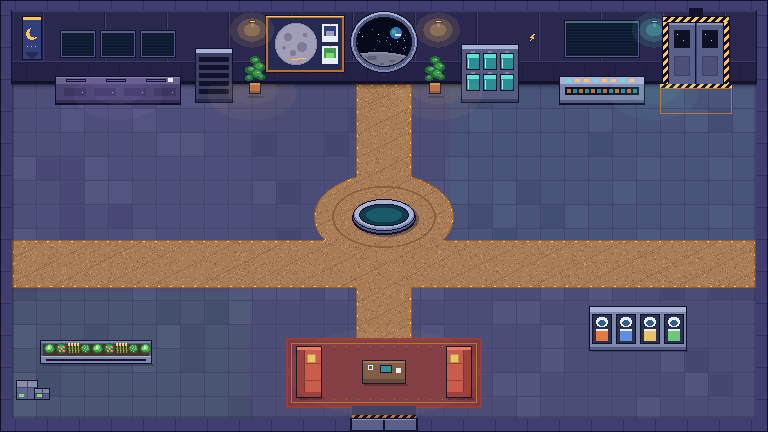
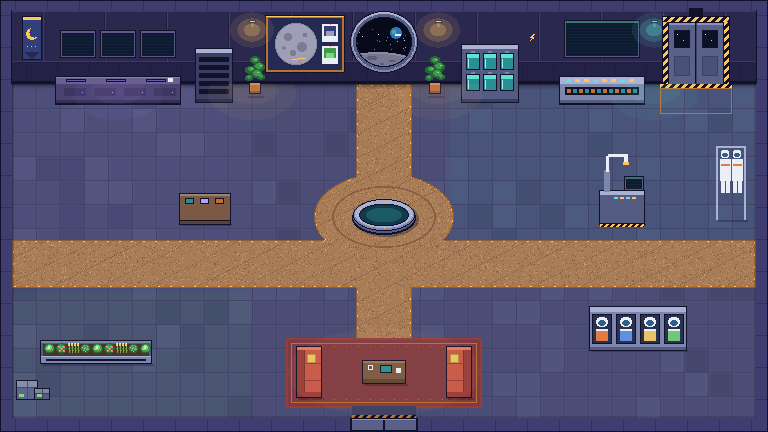
Furniture pass: lockers, suit racks, comms desk, sleep pods, galley, med cot, bike
Every piece is a layout constant plus a blocker, painted by the art scripts so
art and collision stay in sync. Crew now sleep in corridor sleep pods (the old
'beds' are grow beds). tools/dev/check_layout.py flood-fills both maps and
fails if any spot, door or crew route is blocked.

Claude-Session: https://claude.ai/code/session_015ANfU5F84u9fv1g1eVajXV

diff --git a/tools/art/paint_world.py b/tools/art/paint_world.py
@@ -357,6 +357,7 @@ def paint_outpost(preview: bool):
     paint_power_room(cv, L, art)
     paint_greenhouse(cv, L, art, rng)
     paint_shelter(cv, L, art)
+    paint_furniture(cv, L, art)
     paint_exterior_after(cv, L, art)
     # Banded pools of light on the floor under the wall lamps.
     for name, tint in (("POWER_ROOM", TEAL), ("GREEN_ROOM", C("f6b7ff")), ("SHELTER_ROOM", AMBER)):
@@ -622,6 +623,99 @@ def paint_greenhouse(cv: Canvas, L: dict, art: dict, rng):
         cv.rect(lx + 1, ry - FACE_H + 5, 10, 1, C("f6b7ff"))
     sx, sy = L["GREEN_SPOT"]
     art["green_spot"] = [sx, sy]
+
+
+def cabinet(cv: Canvas, x, y, w, d, h, body, top=None, edge_c=None):
+    """A box standing on the floor: footprint (x, y, w, d), front face rising h pixels."""
+    top = top if top is not None else shade(body, 1.25)
+    edge_c = edge_c if edge_c is not None else DARK
+    cv.rect(x + 2, y + d, w, 2, DARK, 0.3)                    # contact shadow
+    cv.rect(x - 1, y - h - 1, w + 2, h + d + 2, edge_c)
+    cv.rect(x, y - h, w, 3, top)
+    cv.rect(x, y - h + 3, w, h + d - 3, body)
+    cv.rect(x, y + d - 2, w, 2, shade(body, 0.75))
+
+
+def paint_furniture(cv: Canvas, L: dict, art: dict):
+    """Everyday furniture for the five-day mission. Footprints come from outpost_layout.gd."""
+    # Storage lockers (power room, south wall).
+    x, y, w, d = L["LOCKERS"]
+    cabinet(cv, x, y, w, d, 26, STEEL_LO, STEEL)
+    for i in range(0, w - 4, 13):
+        cv.rect(x + 2 + i, y - 22, 11, d + 18, DARK)
+        cv.rect(x + 3 + i, y - 21, 9, d + 16, C("3e456c"))
+        for k in range(3):
+            cv.hline(x + 5 + i, y - 18 + k * 3, 5, STEEL)
+        cv.px(x + 10 + i, y - 6, AMBER)
+    # Suit rack: two spare suits and helmets.
+    x, y, w, d = L["SUIT_RACK"]
+    cv.rect(x + 2, y + d, w, 2, DARK, 0.3)
+    cv.rect(x, y - 30, 2, d + 30, STEEL_HI)
+    cv.rect(x + w - 2, y - 30, 2, d + 30, STEEL_HI)
+    cv.rect(x, y - 30, w, 2, STEEL_HI)
+    for k, suit in enumerate([C("e9eef7"), C("d9dfec")]):
+        sx = x + 4 + k * 10
+        cv.ellipse(sx + 4, y - 22, 4, 4, suit)
+        cv.ellipse(sx + 4, y - 21, 2.5, 2, C("2f5f8a"))
+        cv.rect(sx, y - 17, 9, 16, suit)
+        cv.rect(sx + 1, y - 13, 7, 2, ORANGE)
+        cv.rect(sx + 1, y - 1, 3, 8, suit)
+        cv.rect(sx + 5, y - 1, 3, 8, suit)
+    # Comms desk: two screens and a microphone (corridor, west wall). Evening logs are written here.
+    x, y, w, d = L["COMMS_DESK"]
+    cabinet(cv, x, y, w, d, 8, C("4b5278"), STEEL)
+    screen(cv, x + 1, y - 18, w - 2, 9, TEAL)
+    screen(cv, x + 1, y + 4, w - 2, 9, AMBER)
+    cv.rect(x + w - 3, y + d - 8, 2, 6, STEEL_HI)
+    art["comms_desk"] = [x, y, w, d]
+    # Sleep pods: phone-booth crew quarters like the space station's, with a curtain and a reading light.
+    for name in ("SLEEP_POD_A", "SLEEP_POD_B"):
+        x, y, w, d = L[name]
+        cabinet(cv, x, y, w, d, 22, C("3a3f66"), C("5a608e"))
+        cv.rect(x + 3, y - 16, w - 6, d + 12, C("232847"))
+        cv.rect(x + 4, y - 15, w - 8, d + 10, C("5a4d7d"))                  # curtain
+        for k in range(y - 14, y + d - 4, 4):
+            cv.hline(x + 4, k, w - 8, C("4a3f6c"))
+        cv.rect(x + 5, y - 19, 3, 2, AMBER)                                   # reading light
+        cv.rect(x + w - 9, y - 19, 4, 2, TEAL_LO)                             # name tag
+    # Plant shelf: herbs in small trays (greenhouse, east wall).
+    x, y, w, d = L["PLANT_SHELF"]
+    cabinet(cv, x, y, w, d, 20, C("6b5a4e"), C("8a7565"))
+    for k in range(4):
+        sy = y - 16 + k * 11
+        cv.hline(x, sy + 6, w, C("4d4038"))
+        cv.rect(x + 2, sy + 2, w - 4, 4, GREEN_LO)
+        cv.px(x + 3, sy + 1, GREEN)
+        cv.px(x + w - 4, sy + 1, GREEN)
+    # Galley table with meal trays (storm shelter doubles as the galley).
+    x, y, w, d = L["GALLEY_TABLE"]
+    cabinet(cv, x, y, w, d, 6, C("6b5a4e"), C("8a7565"))
+    for k in range(3):
+        cv.rect(x + 4 + k * 11, y - 4, 8, 5, C("d9dfec"))
+        cv.rect(x + 6 + k * 11, y - 3, 4, 2, [GREEN, ORANGE, AMBER][k])
+    # Med bay cot with a first-aid cabinet.
+    x, y, w, d = L["MED_COT"]
+    cabinet(cv, x, y, w, d, 5, STEEL_LO, STEEL)
+    cv.rect(x + 2, y - 4, w - 4, d, C("e9eef7"))
+    cv.rect(x + 2, y - 4, 7, d, C("c9d0e2"))
+    cv.rect(x + w - 8, y - 18, 7, 7, C("e9eef7"))
+    cv.rect(x + w - 6, y - 17, 3, 5, RED)
+    cv.rect(x + w - 7, y - 16, 5, 3, RED)
+    # Exercise bike.
+    x, y, w, d = L["BIKE"]
+    cv.rect(x + 2, y + d, w, 2, DARK, 0.3)
+    cv.rect(x + 2, y + d - 4, w - 4, 3, C("5b6584"))
+    cv.ellipse(x + 8, y + d - 7, 5, 5, C("8a93b0"))
+    cv.ellipse(x + 8, y + d - 7, 2, 2, DARK)
+    cv.rect(x + w - 10, y - 6, 3, d + 2, STEEL_HI)
+    cv.rect(x + w - 14, y - 8, 10, 3, C("2a2f45"))
+    cv.rect(x + 6, y - 2, 8, 3, C("2a2f45"))
+    screen(cv, x + w - 12, y - 16, 9, 6, TEAL)
+    # Cable trays along the corridor ceiling line (decoration only).
+    cx, cy, cw, ch = L["CORRIDOR"]
+    for k in range(cy + 6, cy + ch - 10, 6):
+        cv.px(cx + 2, k, TEAL_LO if (k // 6) % 3 == 0 else STEEL_LO)
+        cv.px(cx + cw - 3, k, AMBER_LO if (k // 6) % 4 == 0 else STEEL_LO)
 
 
 def paint_shelter(cv: Canvas, L: dict, art: dict):

diff --git a/tools/dev/check_layout.py b/tools/dev/check_layout.py
@@ -1,0 +1,97 @@
+"""Checks that furniture never blocks the way.
+
+Reads scripts/outpost/outpost_layout.gd and scripts/academy/academy_layout.gd the same way
+the painters do, builds a walk grid (floor minus blockers, shrunk by the astronaut's body
+radius) and flood-fills from the spawn. Every station spot, crew spot and door centre must
+be reachable, and no spot may sit inside a blocker.
+
+    python3 tools/dev/check_layout.py      (exit code 1 on any problem)
+"""
+from __future__ import annotations
+
+import sys
+from collections import deque
+from pathlib import Path
+
+ROOT = Path(__file__).resolve().parents[2]
+sys.path.insert(0, str(ROOT / "tools" / "art"))
+from paint_world import read_layout  # noqa: E402
+
+CELL = 2          # map units per grid cell
+BODY = 5          # half-width of the astronaut's feet, map units
+
+
+def check(name: str, layout: dict, floors: list[str], spawn: str, spots: list[str]) -> list[str]:
+    problems: list[str] = []
+    W, H = layout["MAP"]
+    blockers = [v for k, v in layout.items() if isinstance(v, tuple) and len(v) == 4 and k not in floors and k not in ("MAP",)]
+    floor_rects = [layout[f] for f in floors]
+
+    def inside(r, x, y, pad=0.0):
+        return r[0] - pad <= x < r[0] + r[2] + pad and r[1] - pad <= y < r[1] + r[3] + pad
+
+    def walkable(x, y):
+        # The feet need floor under the whole body and no furniture within reach.
+        on_floor = all(any(inside(f, x + dx, y + dy) for f in floor_rects) for dx in (-BODY, BODY) for dy in (-2, 2))
+        return on_floor and not any(inside(b, x, y, BODY - 1) for b in blockers)
+
+    cols, rows = int(W // CELL), int(H // CELL)
+    grid = [[walkable(c * CELL + CELL / 2, r * CELL + CELL / 2) for c in range(cols)] for r in range(rows)]
+    sx, sy = layout[spawn]
+    start = (int(sy // CELL), int(sx // CELL))
+    if not grid[start[0]][start[1]]:
+        return [f"{name}: spawn {spawn} is not walkable"]
+    seen = {start}
+    queue = deque([start])
+    while queue:
+        r, c = queue.popleft()
+        for dr, dc in ((1, 0), (-1, 0), (0, 1), (0, -1)):
+            nr, nc = r + dr, c + dc
+            if 0 <= nr < rows and 0 <= nc < cols and grid[nr][nc] and (nr, nc) not in seen:
+                seen.add((nr, nc))
+                queue.append((nr, nc))
+
+    def reachable(x, y, radius=6):
+        # A spot counts if any walkable cell within a few units of it was reached.
+        for r in range(int((y - radius) // CELL), int((y + radius) // CELL) + 1):
+            for c in range(int((x - radius) // CELL), int((x + radius) // CELL) + 1):
+                if (r, c) in seen:
+                    return True
+        return False
+
+    for s in spots:
+        x, y = layout[s]
+        for k, b in layout.items():
+            if k in floors or k == "MAP" or not (isinstance(b, tuple) and len(b) == 4):
+                continue
+            if inside(b, x, y):
+                problems.append(f"{name}: {s} {(x, y)} is inside {k}")
+        if not reachable(x, y):
+            problems.append(f"{name}: {s} {(x, y)} cannot be reached from {spawn}")
+    print(f"{name}: {len(seen)} walkable cells reached, {len(spots)} spots checked, {len(blockers)} blockers")
+    return problems
+
+
+def main() -> int:
+    out = read_layout(ROOT / "scripts" / "outpost" / "outpost_layout.gd")
+    for door in ("POWER_DOOR", "GREEN_DOOR", "SHELTER_DOOR"):
+        x, y, w, h = out[door]
+        out[door + "_MID"] = (x + w / 2, y + h / 2)
+    problems = check("outpost", out,
+                     ["CORRIDOR", "POWER_ROOM", "POWER_DOOR", "GREEN_ROOM", "GREEN_DOOR", "SHELTER_ROOM", "SHELTER_DOOR"],
+                     "SPAWN",
+                     ["POWER_SPOT", "GREEN_SPOT", "HATCH_SPOT", "RETURN_SPOT", "LOG_SPOT", "BUNK_SPOT", "BIKE_SPOT",
+                      "TANAKA_HOME", "TANAKA_WAIT", "TANAKA_SEAT", "RIVERA_HOME", "RIVERA_WAIT", "RIVERA_SEAT",
+                      "HALL_JUNCTION", "POWER_DOOR_MID", "GREEN_DOOR_MID", "SHELTER_DOOR_MID"])
+    aca = read_layout(ROOT / "scripts" / "academy" / "academy_layout.gd")
+    problems += check("academy", aca, ["FLOOR"], "SPAWN",
+                      ["HATCH_ARRIVAL", "BOARD_SPOT", "DESK_SPOT", "PLANT_SPOT", "COMMANDER_SPOT", "ENGINEER_SPOT",
+                       "BOTANIST_SPOT", "ARM_SPOT"])
+    for p in problems:
+        print("PROBLEM:", p)
+    print("LAYOUT CHECK:", "PASS" if not problems else f"{len(problems)} problems")
+    return 1 if problems else 0
+
+
+if __name__ == "__main__":
+    sys.exit(main())

diff --git a/tools/art/paint_academy.py b/tools/art/paint_academy.py
@@ -394,6 +394,48 @@ def paint_academy(preview: bool):
         cv.rect(ox + 4, ly + 3, 12, 2, C("e9eef7"))
     cv.rect(lx, ly + ld - 3, lw, 3, pw.STEEL_LO)
 
+    # --- robotics trainer: a small arm on a pedestal with its control desk -------------
+    ax, ay, aw, ad = L["ARM_TRAINER"]
+    cv.rect(ax + 2, ay + ad, aw, 2, EDGE, 0.3)
+    cv.rect(ax - 1, ay - 10, aw + 2, ad + 11, EDGE)
+    cv.rect(ax, ay - 9, aw, 4, pw.STEEL_HI)
+    cv.rect(ax, ay - 5, aw, ad + 4, pw.STEEL_LO)
+    cv.rect(ax + 4, ay - 30, 6, 22, pw.STEEL)                              # pedestal
+    cv.rect(ax + 6, ay - 44, 3, 16, C("e9eef7"))                           # arm boom
+    cv.rect(ax + 8, ay - 46, 18, 3, C("e9eef7"))
+    cv.rect(ax + 24, ay - 46, 4, 8, C("e9eef7"))
+    cv.rect(ax + 23, ay - 38, 6, 3, pw.AMBER)                              # grapple
+    monitor(cv, ax + aw - 18, ay - 22, 16, 11, pw.TEAL)
+    for i in range(4):
+        cv.rect(ax + 14 + i * 6, ay - 3, 4, 2, pw.AMBER if i % 2 else pw.TEAL)
+    pw.hazard(cv, ax, ay + ad, aw, 3, pw.AMBER, EDGE, 3)
+
+    # --- suit rack by the lander dock ----------------------------------------------------
+    sx, sy, sw, sd = L["SUIT_RACK"]
+    cv.rect(sx + 2, sy + sd, sw, 2, EDGE, 0.3)
+    cv.rect(sx, sy - 34, 2, sd + 34, pw.STEEL_HI)
+    cv.rect(sx + sw - 2, sy - 34, 2, sd + 34, pw.STEEL_HI)
+    cv.rect(sx, sy - 34, sw, 2, pw.STEEL_HI)
+    for k in range(2):
+        ox = sx + 4 + k * 12
+        cv.ellipse(ox + 5, sy - 26, 4.5, 4.5, C("e9eef7"))
+        cv.ellipse(ox + 5, sy - 25, 3, 2, C("2f5f8a"))
+        cv.rect(ox, sy - 21, 11, 22, C("e9eef7"))
+        cv.rect(ox + 1, sy - 16, 9, 2, C("e37a40"))
+        cv.rect(ox + 1, sy + 1, 4, 12, C("e9eef7"))
+        cv.rect(ox + 6, sy + 1, 4, 12, C("e9eef7"))
+
+    # --- crew study table with tablets -------------------------------------------------
+    tx, ty, tw, td = L["CREW_TABLE"]
+    cv.rect(tx + 2, ty + td, tw, 2, EDGE, 0.3)
+    cv.rect(tx - 1, ty - 7, tw + 2, td + 8, EDGE)
+    cv.rect(tx, ty - 6, tw, td + 2, WOOD)
+    cv.rect(tx, ty - 6, tw, 2, shade(WOOD, 1.25))
+    cv.rect(tx, ty + td - 3, tw, 3, shade(WOOD, 0.75))
+    for i in range(3):
+        cv.rect(tx + 5 + i * 15, ty - 2, 9, 6, EDGE)
+        cv.rect(tx + 6 + i * 15, ty - 1, 7, 4, [pw.TEAL_LO, VIOLET, pw.AMBER_LO][i])
+
     # --- pools of light ------------------------------------------------------------------
     floor_mask = cv.rect_mask(fx, fy, fw, fh)
     for lx_, tint in ((252, pw.AMBER), (438, pw.AMBER), (654, pw.TEAL), (118, VIOLET)):
